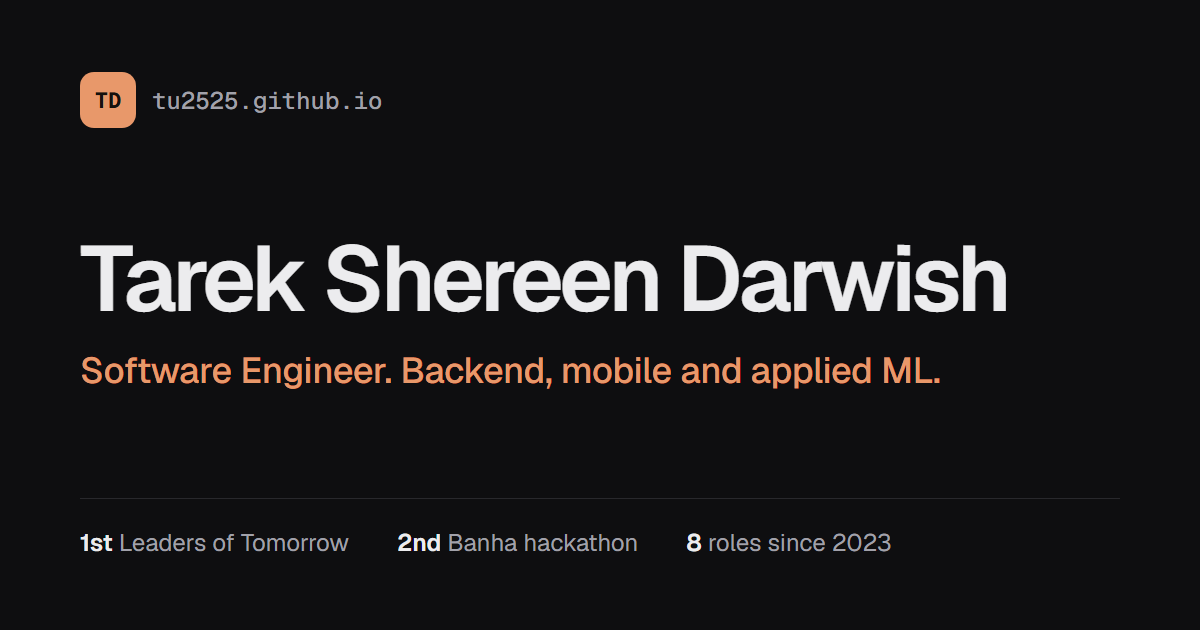
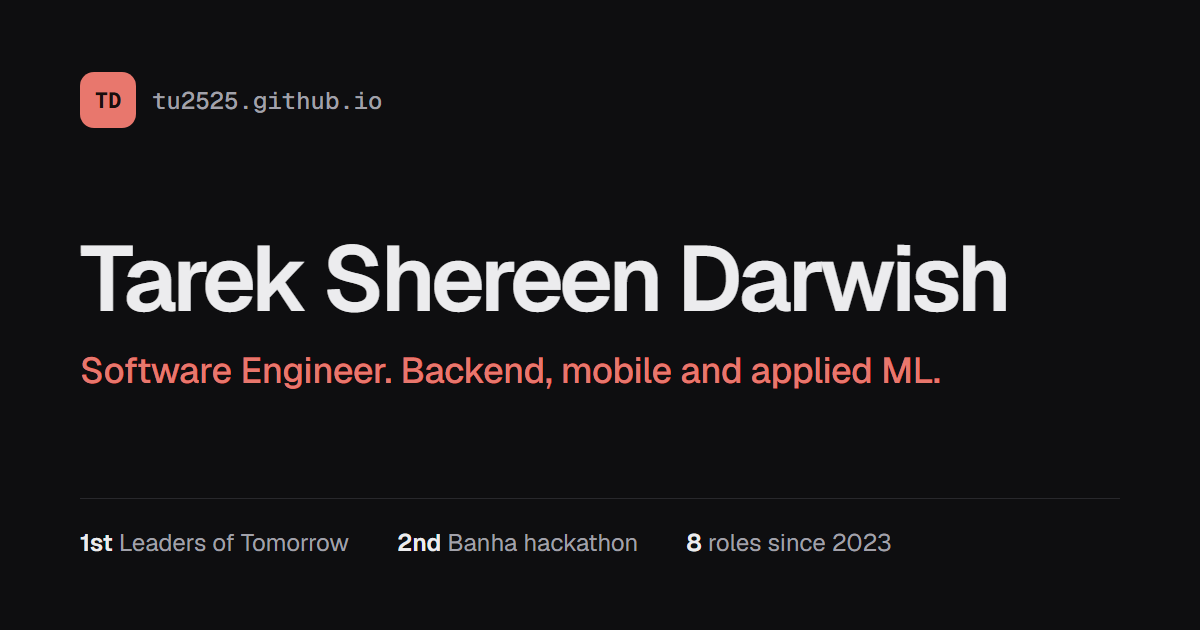
Keep scroll and track on back, highlight current section, red accent
- "All projects" on a project page returns to the exact scroll position
  when the visitor came from the home page, and keeps the ?track= view
  otherwise; header links keep the track too
- The nav highlights the section in view (Skills and 3D added on wider
  screens)
- Accent colour moves from burnt orange to red, contrast-checked in both
  themes; favicon and preview image updated

Changed region(s): [[0.0617, 0.573, 0.7708, 0.6333], [0.0617, 0.0905, 0.1233, 0.2111]]

diff --git a/src/routes/+layout.svelte b/src/routes/+layout.svelte
@@ -4,11 +4,45 @@
 	import ThemeToggle from '$lib/components/ThemeToggle.svelte';
 	import Icon from '$lib/components/Icon.svelte';
 	import { profile } from '$lib/data/profile';
+	import { homeHref } from '$lib/track.svelte';
 
 	let { children } = $props();
 
 	const isHome = $derived(page.url.pathname === '/');
-	const base = $derived(isHome ? '' : '/');
+
+	// `wide` items only show on larger screens so the bar fits on one line on phones.
+	const sections = [
+		{ id: 'projects', label: 'Projects', wide: false },
+		{ id: 'experience', label: 'Experience', wide: false },
+		{ id: 'skills', label: 'Skills', wide: true },
+		{ id: 'modelling', label: '3D', wide: true },
+		{ id: 'contact', label: 'Contact', wide: false }
+	];
+
+	// Highlight the section that crosses the middle of the viewport, home page only.
+	let active = $state<string | null>(null);
+	$effect(() => {
+		if (!isHome) {
+			active = null;
+			return;
+		}
+		const seen = new Set<string>();
+		const observer = new IntersectionObserver(
+			(entries) => {
+				for (const e of entries) {
+					if (e.isIntersecting) seen.add(e.target.id);
+					else seen.delete(e.target.id);
+				}
+				active = sections.find((s) => seen.has(s.id))?.id ?? null;
+			},
+			{ rootMargin: '-45% 0px -50% 0px' }
+		);
+		for (const s of sections) {
+			const el = document.getElementById(s.id);
+			if (el) observer.observe(el);
+		}
+		return () => observer.disconnect();
+	});
 </script>
 
 <svelte:head>
@@ -29,14 +63,18 @@
 
 <header class="top">
 	<div class="wrap bar">
-		<a class="brand" href="/" aria-label="{profile.shortName}, home">
+		<a class="brand" href={homeHref()} aria-label="{profile.shortName}, home">
 			<span class="mark">TD</span>
 			<span class="brand-name">{profile.shortName}</span>
 		</a>
 		<nav aria-label="Main">
-			<a href="{base}#projects">Projects</a>
-			<a href="{base}#experience">Experience</a>
-			<a href="{base}#contact">Contact</a>
+			{#each sections as s (s.id)}
+				<a
+					href={isHome ? `#${s.id}` : homeHref(`#${s.id}`)}
+					class:wide={s.wide}
+					aria-current={active === s.id ? 'true' : undefined}>{s.label}</a
+				>
+			{/each}
 		</nav>
 		<ThemeToggle />
 	</div>
@@ -120,9 +158,39 @@
 		font-weight: 500;
 		color: var(--muted);
 	}
+	nav a {
+		position: relative;
+		transition:
+			color 0.2s var(--ease-out),
+			background 0.2s var(--ease-out);
+	}
 	nav a:hover {
 		color: var(--text);
 		background: var(--surface-2);
+	}
+	/* Current section: full-strength text and a short accent bar under the label. */
+	nav a[aria-current='true'] {
+		color: var(--text);
+	}
+	nav a::after {
+		content: '';
+		position: absolute;
+		left: 50%;
+		bottom: 2px;
+		width: 14px;
+		height: 2px;
+		border-radius: 2px;
+		background: var(--accent);
+		transform: translateX(-50%) scaleX(0);
+		transition: transform 0.25s var(--ease-out);
+	}
+	nav a[aria-current='true']::after {
+		transform: translateX(-50%) scaleX(1);
+	}
+	@media (max-width: 860px) {
+		nav a.wide {
+			display: none;
+		}
 	}
 	@media (max-width: 640px) {
 		.brand-name {

diff --git a/src/lib/styles/global.css b/src/lib/styles/global.css
@@ -1,7 +1,7 @@
 @import '@fontsource-variable/geist';
 @import '@fontsource-variable/geist-mono';
 
-/* Neutral zinc greys with one desaturated burnt-orange accent. */
+/* Neutral zinc greys with one red accent (saturation kept under 80%). */
 :root {
 	--bg: #f4f4f5;
 	--surface: #fbfbfb;
@@ -9,8 +9,8 @@
 	--text: #18181b;
 	--muted: #52525b;
 	--line: #e0e0e4;
-	--accent: #b54a1a;
-	--accent-soft: #f5e4da;
+	--accent: #c4342b;
+	--accent-soft: #fbeceb;
 	--on-accent: #fbfbfb;
 	--shadow: 0 1px 2px rgb(24 24 27 / 0.04), 0 14px 32px -18px rgb(24 24 27 / 0.22);
 
@@ -36,9 +36,9 @@
 		--text: #ececee;
 		--muted: #a1a1aa;
 		--line: #28282c;
-		--accent: #e8986a;
-		--accent-soft: #33221a;
-		--on-accent: #16110d;
+		--accent: #e8776d;
+		--accent-soft: #361a18;
+		--on-accent: #1a0e0d;
 		--shadow: 0 1px 2px rgb(0 0 0 / 0.3), 0 14px 32px -18px rgb(0 0 0 / 0.7);
 		color-scheme: dark;
 	}
@@ -51,9 +51,9 @@
 	--text: #ececee;
 	--muted: #a1a1aa;
 	--line: #28282c;
-	--accent: #e8986a;
-	--accent-soft: #33221a;
-	--on-accent: #16110d;
+	--accent: #e8776d;
+	--accent-soft: #361a18;
+	--on-accent: #1a0e0d;
 	--shadow: 0 1px 2px rgb(0 0 0 / 0.3), 0 14px 32px -18px rgb(0 0 0 / 0.7);
 	color-scheme: dark;
 }

diff --git a/src/routes/projects/[slug]/+page.svelte b/src/routes/projects/[slug]/+page.svelte
@@ -1,10 +1,25 @@
 <script lang="ts">
+	import { afterNavigate } from '$app/navigation';
 	import Icon from '$lib/components/Icon.svelte';
 	import { categoryLabels } from '$lib/data/projects';
 	import { profile } from '$lib/data/profile';
+	import { homeHref } from '$lib/track.svelte';
 
 	let { data } = $props();
 	const p = $derived(data.project);
+
+	// Coming from the home page, "All projects" behaves like the browser back button,
+	// so the visitor lands where they left off. Otherwise it links to the projects section.
+	let cameFromHome = $state(false);
+	afterNavigate(({ from }) => {
+		cameFromHome = from?.url.pathname === '/';
+	});
+
+	function goBack(e: MouseEvent) {
+		if (!cameFromHome || e.button !== 0 || e.metaKey || e.ctrlKey || e.shiftKey || e.altKey) return;
+		e.preventDefault();
+		history.back();
+	}
 </script>
 
 <svelte:head>
@@ -17,7 +32,8 @@
 </svelte:head>
 
 <article class="wrap page">
-	<a class="back" href="/#projects"><Icon name="back" /> All projects</a>
+	<a class="back" href={homeHref('#projects')} onclick={goBack}><Icon name="back" /> All projects</a
+	>
 
 	<header>
 		<div class="meta">

diff --git a/src/lib/track.svelte.ts b/src/lib/track.svelte.ts
@@ -11,3 +11,8 @@ export function readTrackFromUrl(url: URL) {
 export function currentTrack() {
 	return getTrack(trackState.id);
 }
+
+/** Link back to the home page that keeps the visitor's track, e.g. `/?track=ml#projects`. */
+export function homeHref(hash = '') {
+	return (trackState.id === defaultTrack ? '/' : `/?track=${trackState.id}`) + hash;
+}
